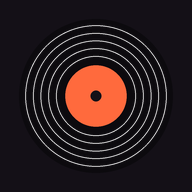
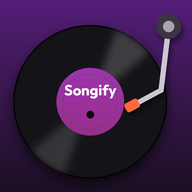
ikon + ny layout
ikon + ny layout

diff --git a/index.html b/index.html
@@ -2,7 +2,7 @@
 <html lang="no"><head><meta charset="utf-8">
 <meta name="viewport" content="width=device-width,initial-scale=1,viewport-fit=cover">
 <title>Songify</title>
-<!-- versjon 2: platespiller, lydnivå, EQ -->
+<!-- versjon 3: platespilleren åpner seg selv -->
 <meta name="theme-color" content="#141017">
 <meta name="apple-mobile-web-app-capable" content="yes">
 <meta name="mobile-web-app-capable" content="yes">
@@ -519,7 +519,7 @@ $('#sheet').addEventListener('submit',e=>{e.preventDefault();H.submit&&H.submit(
 /* ---------- spilleren ---------- */
 const audio=new Audio();audio.preload='auto';audio.crossOrigin='anonymous';
 const shuffle=a=>{for(let i=a.length-1;i>0;i--){const j=Math.floor(Math.random()*(i+1));[a[i],a[j]]=[a[j],a[i]]}return a};
-function startQueue(ids,i){S.base=[...ids];const first=ids[i];S.queue=S.shuffle?[first,...shuffle(ids.filter((_,k)=>k!==i))]:[...ids];S.qi=S.shuffle?0:i;load1(true);if(matchMedia('(max-width:700px)').matches)$('#np').hidden=false}
+function startQueue(ids,i){S.base=[...ids];const first=ids[i];S.queue=S.shuffle?[first,...shuffle(ids.filter((_,k)=>k!==i))]:[...ids];S.qi=S.shuffle?0:i;load1(true);$('#np').hidden=false}
 function load1(go){
   const s=song(curId());if(!s)return;now();render();
   const u=fresh(s.file_path);
